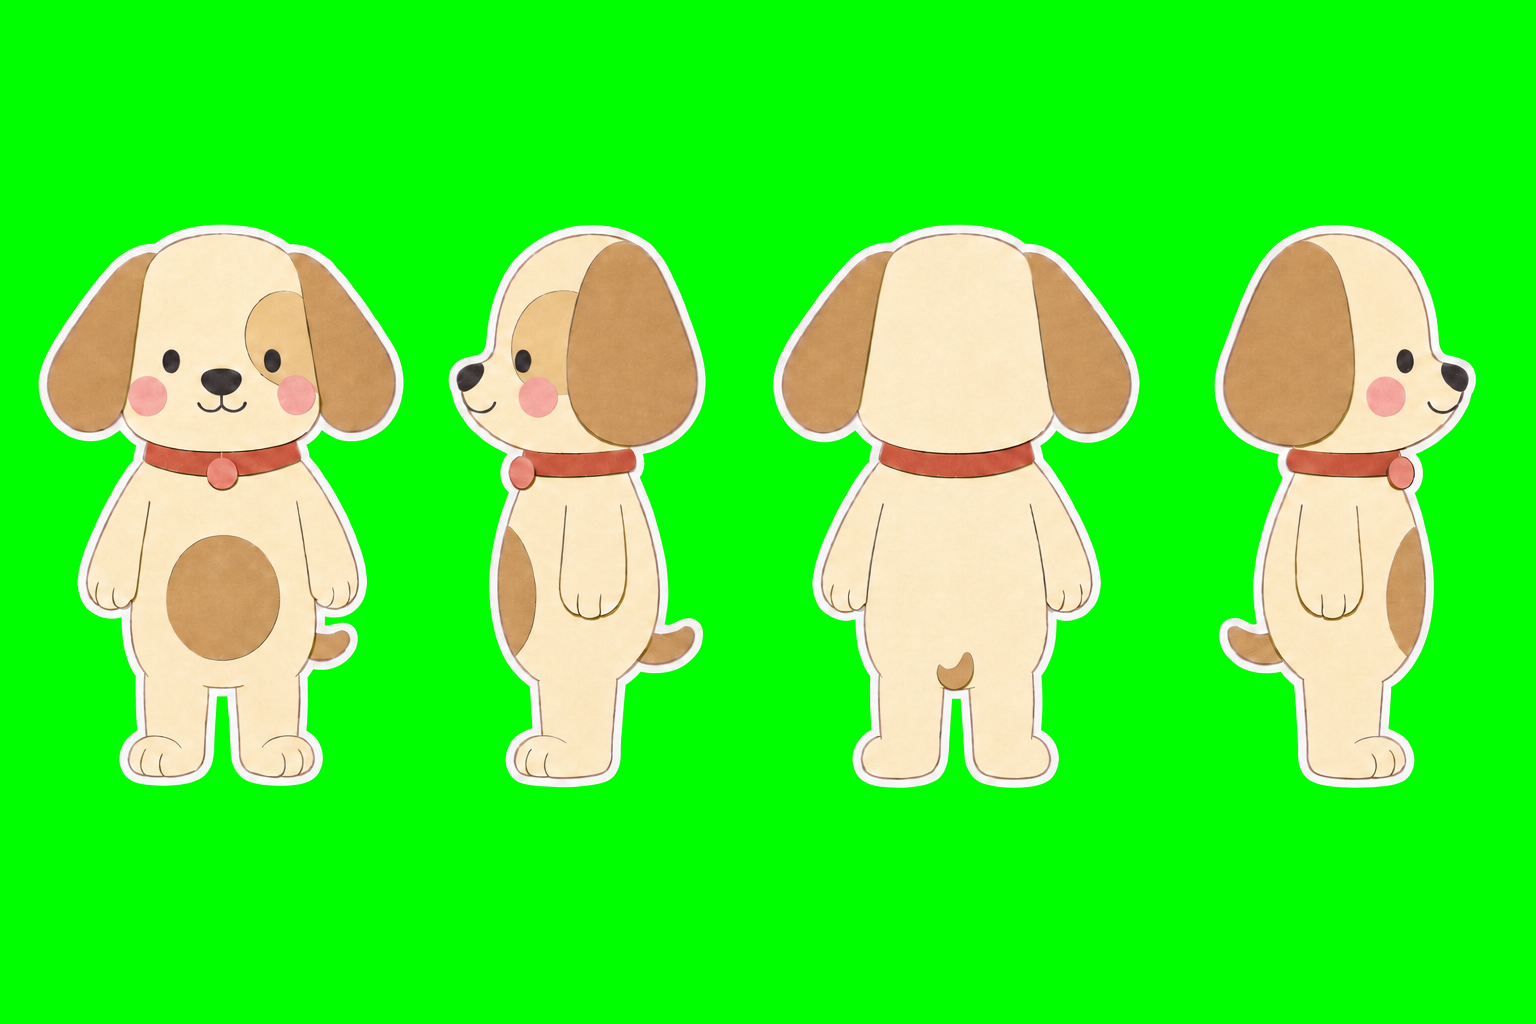
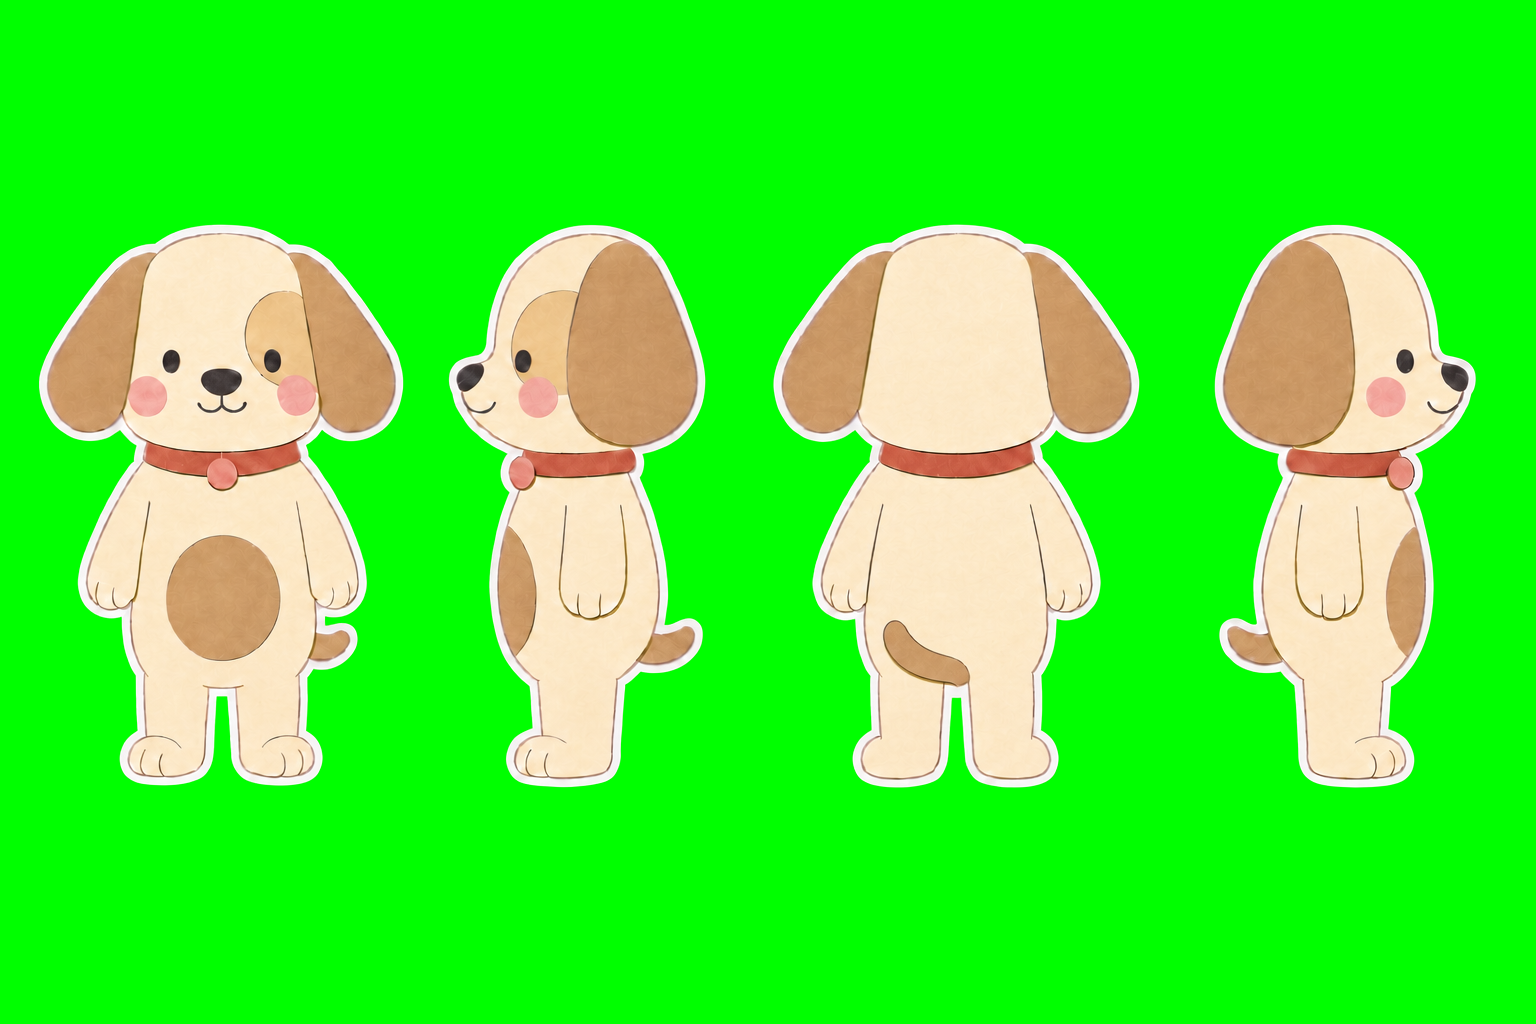
Primepaw: from behind, the puppy's tail starts at the centre of its rump and goes out to the left, tip curling up, on the turnaround and the back strip
The turnaround's back figure was edited first and the back strip redrawn from it, so the standee's tail from behind is the front's tail seen from the other side rather than a stub hanging between the legs. The README and the character skill's prompts.md and comfy.md carry the wording that put it there.

Changed region(s): [[0.5625, 0.5938, 0.6562, 0.6875]]

diff --git a/mockups/primepaw/pet/README.md b/mockups/primepaw/pet/README.md
@@ -46,8 +46,8 @@ attention (3.2 a second), with a little lift and roll on top. The four walk stri
 were drawn with GPT Image 2.6 Sunburst rather than Qwen, which splays the legs when the puppy walks
 away and turns its head in profile. The back strip was drawn from `src/dog/turnaround.png`, the puppy
 from its four sides, because with only the front to go on the model made up a back and put the tummy
-patch there; the turnaround settles it as plain cream, with just the tip of the tail peeking out at the
-centre of the rump. The character skill's `comfy.md` has that recipe. `dog-walk.png` is cut to that
+patch there; the turnaround settles it as plain cream, the tail starting at the centre of the rump
+and going out to the left with its tip curling up. The character skill's `comfy.md` has that recipe. `dog-walk.png` is cut to that
 layout, the puppy's feet on the cell's ground line and the standing puppy 86% of the cell's height, so the host hands it over as
 
 ```ts
@@ -149,36 +149,41 @@ all, its short tail at the bottom in the middle, its two paws at its sides and t
 at the left. All on a solid flat bright green (#00FF00) background, with no ground line drawn, no grid
 lines, no borders, no labels and no text. Flat paper, no shadows, no gradients, not 3D."
 
-That wording put the tail where it said, a whole tail hanging in the middle, so the sheet was edited,
-the turnaround as the first reference and the body as the second (a first edit moved the tail to the
-hip, which was wrong too): "...Reproduce the turnaround sheet exactly as it is, every figure the same
-size and in the same place, with the same colours, the same pen-ink outlines, the same faint paper
-grain and the same white die-cut sticker border around each figure, changing only one thing: the tail
-of the third figure, the view from behind. Seen from directly behind, the puppy's short kraft brown
-paper tail (#d9bc86) sits at the centre of its rump, in the middle of the bottom of its back, right
-where the two legs meet the body, and only the tip of the tail peeks out: a small curled tip, curving
-upward with its point up, the same kraft brown paper with the same pen outline as the tail the front
-view shows peeking at its hip, drawn small and centred between the two legs, not at either side of the
-body and not hanging down below the body. Nothing else about the back view changes..." The skill's
-`{BACK}` slot now carries the tail that way from the start.
+That wording put the tail where it said, a whole tail hanging in the middle, and it took three edits
+of the sheet to land the tail, each with the turnaround as the first reference and the body as the
+second (a whole tail at the hip, then a stub at the centre, both wrong). The one that stuck:
+"...Reproduce the turnaround sheet exactly as it is, every figure the same size and in the same place,
+with the same colours, the same pen-ink outlines, the same faint paper grain and the same white
+die-cut sticker border around each figure, changing only one thing: the tail of the third figure, the
+view from behind. Seen from directly behind, the puppy's short kraft brown paper tail (#d9bc86) starts
+at the centre of its rump, in the middle of the bottom of its back right where the two legs meet the
+body, and sticks out sideways to the left of the picture, lying across the cream back with its tip
+curling up near the left edge of the body. The whole tail is visible from behind: its base at the
+centre, its length going to the left, its tip curling upward at the left, the same kraft brown paper
+with the same pen outline and about the same size as the tail the front view shows peeking out at its
+hip, which is this same tail seen from the other side. It does not point straight up, does not hang
+down and does not start at the side of the body: it starts at the centre and goes to the left. Nothing
+else about the back view changes..." The skill's `{BACK}` slot now carries the tail that way from the
+start.
 
 **The back strip** (1536 by 1024, GPT Image 2.6, the turnaround first and the body second): "The first
 reference image is a character turnaround of a paper cut-out friendly floppy-eared puppy: its front,
 its left side, its back and its right side. The second reference image is the same puppy from the
 front. Draw the puppy exactly as the turnaround's third figure shows it from behind: the back of its
 head with no face at all, the backs of both kraft brown floppy ears hanging at the sides of the head,
-the back of the red collar, a plain cream paper back with no patch, just the tip of its short kraft
-brown tail peeking out at the centre of its rump, in the middle of the bottom of its back where the
-two legs meet the body, a small curled tip curving upward, never at the side of its hip and never
-hanging down between its legs, exactly as the turnaround's back view shows it, its two paws at its
+the back of the red collar, a plain cream paper back with no patch, its short kraft brown tail
+starting at the centre of its rump, in the middle of the bottom of its back where the two legs meet
+the body, and sticking out sideways to the left of the picture across its back with its tip curling up
+near the left edge of its body, the whole tail visible, never pointing straight up and never hanging
+down between its legs, exactly as the turnaround's back view shows it, its two paws at its
 sides and the backs of its little feet, pen-ink outlines, flat paper colours with a faint grain, and
 the white die-cut sticker border. Draw it as a stop-motion sprite sheet: a grid
 of 3 columns and 2 rows, 6 cells of equal size, on a solid flat bright green (#00FF00) background, with
 no grid lines, no borders, no labels and no text. The 6 cells read left to right along the top row and
 then along the bottom row. In every cell the puppy is the same size as in the turnaround, seen from
 directly behind, facing straight away from the viewer, its body upright and square to the viewer in
-every cell, never turning, with its feet standing on the same ground line and the tail tip the same,
-at the centre, in every cell. The 6 cells: 1. standing still with both paws relaxed at its sides, both feet planted,
+every cell, never turning, with its feet standing on the same ground line and the tail the same,
+from the centre going left, in every cell. The 6 cells: 1. standing still with both paws relaxed at its sides, both feet planted,
 exactly like the turnaround's back view;
 2. mid-step walking away from us: the left leg planted straight down under the body and the right leg
 bent back and lifted so we see the sole of its raised right foot, the legs staying under the body and

diff --git a/mockups/primepaw/.claude/skills/primepaw-character/references/prompts.md b/mockups/primepaw/.claude/skills/primepaw-character/references/prompts.md
@@ -16,7 +16,7 @@ prompt opens with the recap so the model keeps the character it is shown.
 | `{HEAD}` | what the avatar shows: the head and whatever sits at the neck | the puppy's head with its ears and the top of its red collar |
 | `{BODY}` | the standing figure, head to toe | a short round cream paper body, a kraft brown paper patch on its tummy, its two front paws hanging relaxed at its sides, two short legs with little round feet planted on the ground, the tip of its tail showing at one side, the same red collar around its neck and the same friendly smiling face |
 | `{SIDE}` | what a profile view shows | one eye, one ear, the tummy patch showing as a sliver at its front, its snout pointing left and its tail at the right |
-| `{BACK}` | what the view from behind shows, absences included: the front never shows the back, so the model makes one up unless this slot settles it; say where each part the front does show (a tail, a bow) sits from behind and how much of it shows, or it gets reinvented too | the back of its head with no face, the backs of both floppy ears hanging at the sides, the back of the red collar, a plain cream back with no patch at all, just the tip of its short kraft brown tail peeking out at the centre of its rump, in the middle of the bottom of its back where the two legs meet the body, a small curled tip curving upward, never at the side of its hip and never hanging down between its legs, its two paws at its sides and the backs of its feet |
+| `{BACK}` | what the view from behind shows, absences included: the front never shows the back, so the model makes one up unless this slot settles it; say where each part the front does show (a tail, a bow) sits from behind and how much of it shows, or it gets reinvented too | the back of its head with no face, the backs of both floppy ears hanging at the sides, the back of the red collar, a plain cream back with no patch at all, its short kraft brown tail starting at the centre of its rump, in the middle of the bottom of its back where the two legs meet the body, and sticking out sideways to the left of the picture across its back with its tip curling up near the left edge of its body, the whole tail visible, never pointing straight up and never hanging down between its legs, its two paws at its sides and the backs of its feet |
 | `{PAWS}` | the word for its front limbs | paws |
 | `{EARS}` | the part that bounces, droops or perks (ears, antennae, feathers, a hat) | ears |
 

diff --git a/mockups/primepaw/.claude/skills/primepaw-character/references/comfy.md b/mockups/primepaw/.claude/skills/primepaw-character/references/comfy.md
@@ -82,8 +82,9 @@ as two items of one batch, is the cheap way to have a choice.
 - **The turnaround:** the body on `image_1`, the turnaround prompt from `prompts.md`. Judge it like the
   base: four figures of one height on one ground line, the back with no face and with every absence
   the `{BACK}` slot names (the puppy's plain back, no patch), every part the front shows sitting where
-  it should from behind (the puppy's tail: just its curled tip at the centre of the rump, not a whole
-  tail at the hip and not a blob hanging between the legs), the profiles with one eye, the same colours in every view. Save it as
+  it should from behind (the puppy's tail: its base at the centre of the rump and the tail going out to the left
+  across the back with its tip curling up, the front's tail seen from the other side; not a stub, not a
+  whole tail at the hip, not a blob hanging between the legs), the profiles with one eye, the same colours in every view. Save it as
   `pet/src/<id>/turnaround.png`; it never ships, but every strip copies it. One figure wrong on a sheet
   that is otherwise right is an edit, not a redraw: send the sheet back as `image_1` with the body as
   `image_2` and ask for it reproduced exactly with that one change; the other figures stay in place to
